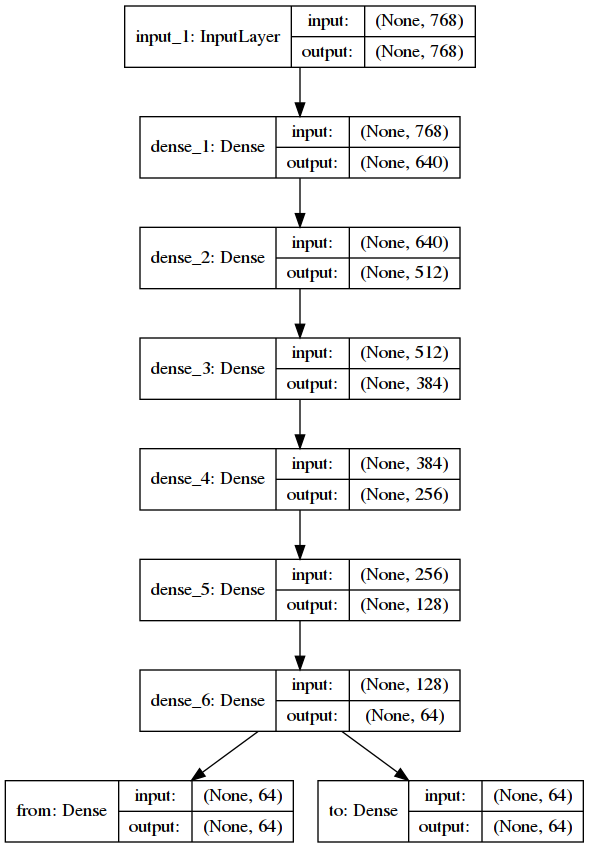
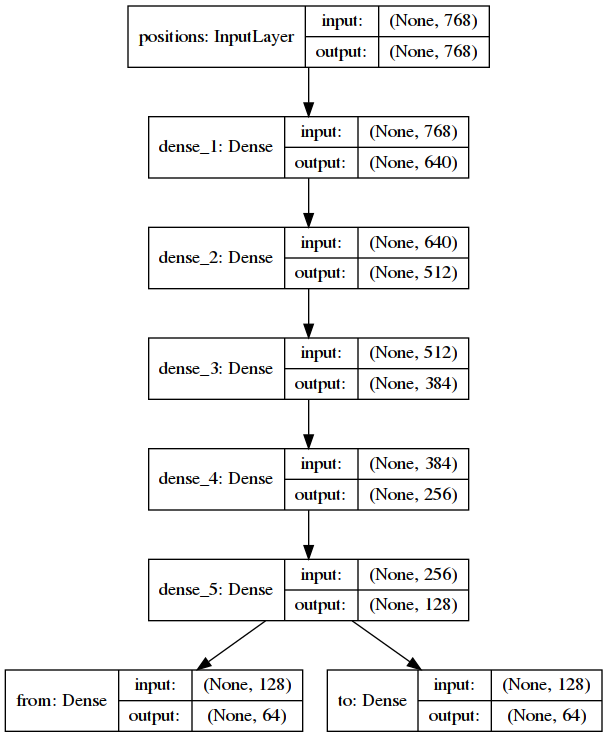
Some better observability

Changed region(s): [[0.0, 0.0, 1.0, 0.9986]]

diff --git a/program.py b/program.py
@@ -8,7 +8,27 @@ from nn import NN
 from player import Player
 
 
-def record_results(brd, rnd):
+class MyStringExporter(pgn.StringExporter):
+
+    def __init__(self, comments):
+        super().__init__(headers=True, variations=True, comments=True)
+        self.comm_stack = comments
+
+    def visit_move(self, board, move):
+        if self.variations or not self.variation_depth:
+            # Write the move number.
+            if board.turn == WHITE:
+                self.write_token(str(board.fullmove_number) + ". ")
+            elif self.force_movenumber:
+                self.write_token(str(board.fullmove_number) + "... ")
+
+            # Write the SAN.
+            self.write_token(board.san(move) + " {%s} " % self.comm_stack.pop(0))
+
+            self.force_movenumber = False
+
+
+def record_results(brd, rnd, avgs):
     journal = pgn.Game.from_board(brd)
     journal.headers.clear()
     journal.headers["White"] = "Lisa"
@@ -16,25 +36,26 @@ def record_results(brd, rnd):
     journal.headers["Round"] = rnd
     journal.headers["Result"] = brd.result(claim_draw=True)
     if brd.is_checkmate():
-        journal.end().comment = "checkmate"
+        comm = "checkmate"
     elif brd.can_claim_fifty_moves():
-        journal.end().comment = "50 moves claim"
+        comm = "50 moves"
     elif brd.can_claim_threefold_repetition():
-        journal.end().comment = "threefold claim"
+        comm = "threefold"
     elif brd.is_insufficient_material():
-        journal.end().comment = "insufficient material"
+        comm = "material"
     elif not any(brd.generate_legal_moves()):
-        journal.end().comment = "stalemate"
+        comm = "stalemate"
     else:
-        journal.end().comment = "by other reason"
+        comm = "by other reason"
+    journal.headers["Site"] = comm
 
-    # exporter = pgn.StringExporter(headers=True, variations=True, comments=True)
-    # logging.info("\n%s", journal.accept(exporter))
-    logging.info("Game #%d: %s by %s, %d moves", rnd, journal.headers["Result"], journal.end().comment,
-                 brd.fullmove_number)
+    exporter = MyStringExporter(brd.comment_stack)
+    pgns = journal.accept(exporter)
+    # logging.info("\n%s", pgns)
+    logging.info("Game #%d:\t%s by %s,\t%d moves,\t%.3f AMS", rnd, journal.headers["Result"], comm,
+                 brd.fullmove_number, avgs)
     with open("last.pgn", "w") as out:
-        exporter = pgn.FileExporter(out)
-        journal.accept(exporter)
+        out.write(pgns)
 
 
 class BoardOptim(Board):
@@ -42,22 +63,23 @@ class BoardOptim(Board):
     def __init__(self, fen=STARTING_FEN, *, chess960=False):
         super().__init__(fen, chess960=chess960)
         self._fens = []
+        self.comment_stack = []
 
-    def can_claim_threefold_repetition(self):
+    def can_claim_threefold_repetition1(self):
         # repetition = super().can_claim_threefold_repetition()
         # if repetition:
         cnt = Counter(self._fens)
         return cnt[self._fens[-1]] >= 3
 
-    def is_fivefold_repetition(self):
+    def is_fivefold_repetition1(self):
         cnt = Counter(self._fens)
         return cnt[self._fens[-1]] >= 5
 
-    def push(self, move):
+    def push1(self, move):
         super().push(move)
         self._fens.append(self.epd().replace(" w ", " . ").replace(" b ", " . "))
 
-    def pop(self):
+    def pop1(self):
         self._fens.pop(-1)
         return super().pop()
 
@@ -71,7 +93,9 @@ def play_one_game(pwhite, pblack, rnd):
         # logging.debug("%s. %s %s", board.fullmove_number - 1, board.move_stack[-1], board.move_stack[-2])
         pass
 
-    record_results(board, rnd)
+    all_moves = pwhite.moves_log + pblack.moves_log
+    avg_score = sum([x['score'] for x in all_moves]) / float(len(all_moves))
+    record_results(board, rnd, avg_score)
 
 
 if __name__ == "__main__":
@@ -92,7 +116,7 @@ if __name__ == "__main__":
         if game_data[0]["result"] != 0.5:
             useful_stack.append(game_data)
 
-        if not (rnd % 10):
+        if not (rnd % 20):
             data = []
             if not useful_stack:
                 data.extend(game_data)

diff --git a/nn.py b/nn.py
@@ -30,19 +30,19 @@ class NN(object):
         self._model.save(filename, overwrite=True)
 
     def _get_nn(self):
-        positions = layers.Input(shape=(8 * 8 * 12,))  # 12 is len of PIECE_MAP
+        positions = layers.Input(shape=(8 * 8 * 12,), name="positions")  # 12 is len of PIECE_MAP
 
         reg = None
-        activ_hidden = "relu"
-        hidden = layers.Dense((8 * 8 * 10), activation=activ_hidden, kernel_regularizer=reg)(positions)
-        hidden = layers.Dense((8 * 8 * 8), activation=activ_hidden, kernel_regularizer=reg)(hidden)
-        hidden = layers.Dense((8 * 8 * 6), activation=activ_hidden, kernel_regularizer=reg)(hidden)
-        hidden = layers.Dense((8 * 8 * 4), activation=activ_hidden, kernel_regularizer=reg)(hidden)
-        hidden = layers.Dense((8 * 8 * 2), activation=activ_hidden, kernel_regularizer=reg)(hidden)
-        hidden = layers.Dense((8 * 8 * 1), activation=activ_hidden, kernel_regularizer=reg)(hidden)
+        activ_hidden = "sigmoid"
+        kernel = 8 * 8
+        hidden = layers.Dense((kernel * 10), activation=activ_hidden, kernel_regularizer=reg)(positions)
+        hidden = layers.Dense((kernel * 8), activation=activ_hidden, kernel_regularizer=reg)(hidden)
+        hidden = layers.Dense((kernel * 6), activation=activ_hidden, kernel_regularizer=reg)(hidden)
+        hidden = layers.Dense((kernel * 4), activation=activ_hidden, kernel_regularizer=reg)(hidden)
+        hidden = layers.Dense((kernel * 2), activation=activ_hidden, kernel_regularizer=reg)(hidden)
 
-        out_from = layers.Dense(64, activation="softmax", name="from")(hidden)
-        out_to = layers.Dense(64, activation="softmax", name="to")(hidden)
+        out_from = layers.Dense(64, activation="sigmoid", name="from")(hidden)
+        out_to = layers.Dense(64, activation="sigmoid", name="to")(hidden)
 
         model = Model(inputs=[positions, ], outputs=[out_from, out_to])
         model.compile(optimizer='adam',
@@ -97,7 +97,7 @@ class NN(object):
             inputs_pos[batch_n] = self._fen_to_array(rec['fen']).flatten()
 
             score = rec['score']
-            if not score:
+            if not score or not rec['result']:
                 continue
 
             out_from[batch_n][rec['move'].from_square] = score * rec['result']

diff --git a/player.py b/player.py
@@ -17,11 +17,10 @@ class Player(object):
         self.color = color
         self.board = None
         self.nn = nn
-        self._moves_log = []
+        self.moves_log = []
 
     def makes_move(self):
         move, fen = self._choose_best_move()
-        #move = Move(4, 12)
         move_rec = self._mirror_move(move) if self.color == chess.BLACK else move
 
         before = self._get_evals(fen)
@@ -36,10 +35,11 @@ class Player(object):
                    "before": before, "after": after,
                    "score": self._get_score(before, after, move)}
 
-        #logging.debug("%d. %s %s", self.board.fullmove_number, move, log_rec["score"])
-        self._moves_log.append(log_rec)
+        # logging.debug("%d. %s %s", self.board.fullmove_number, move, log_rec["score"])
+        self.moves_log.append(log_rec)
+        self.board.comment_stack.append(log_rec["score"])
 
-        not_over = move and not self.board.is_game_over(claim_draw=True)
+        not_over = move and not self.board.is_game_over(claim_draw=False)
         return not_over
 
     def _get_evals(self, fen):
@@ -99,10 +99,10 @@ class Player(object):
             result = 0.5
 
         res = []
-        for x in self._moves_log:
+        for x in self.moves_log:
             x.update({"result": result})
             res.append(x)
-        self._moves_log.clear()
+        self.moves_log.clear()
         return res
 
     def _get_score(self, before, after, move):
